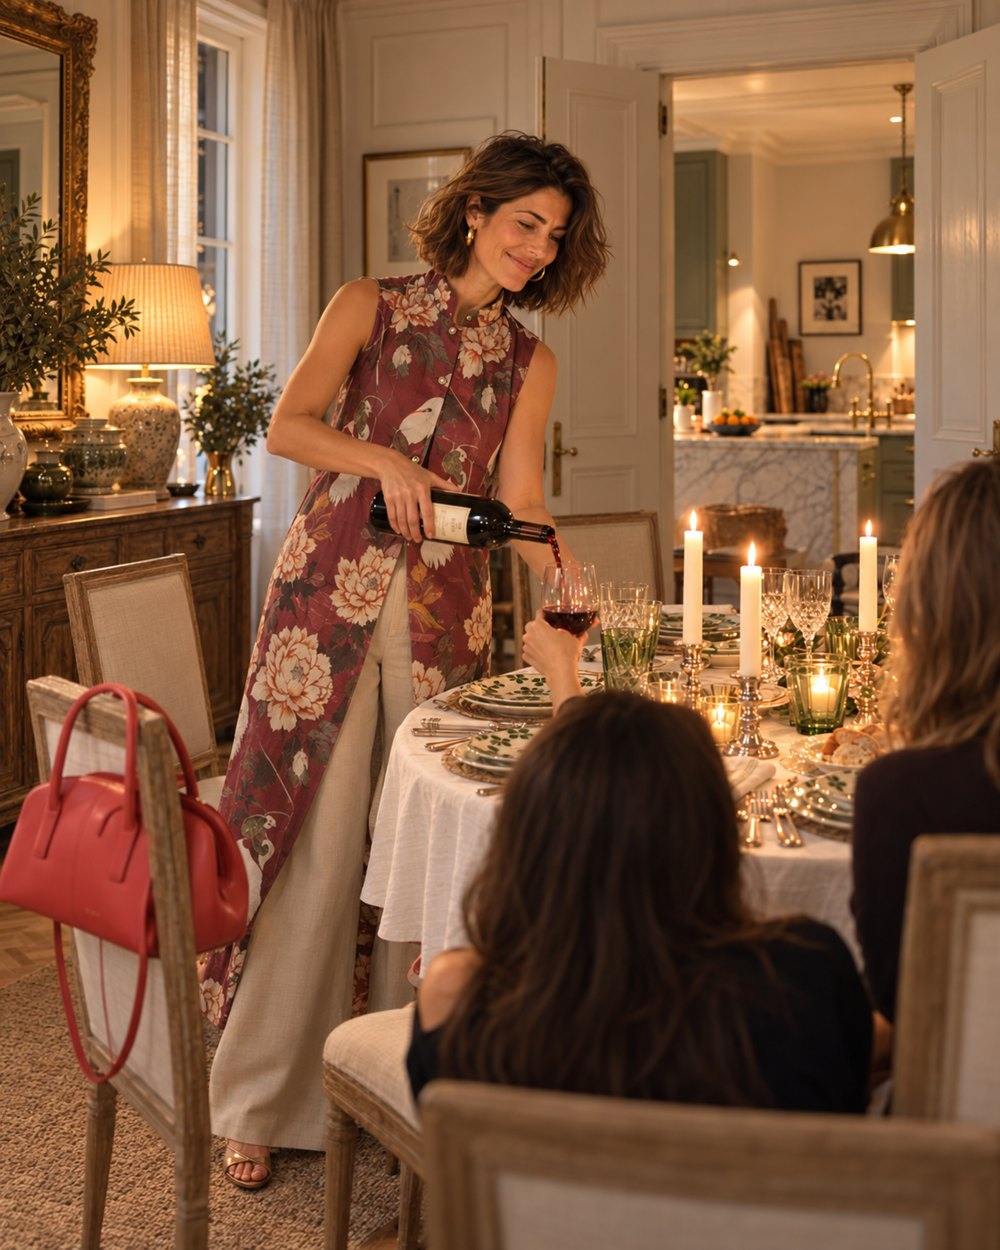
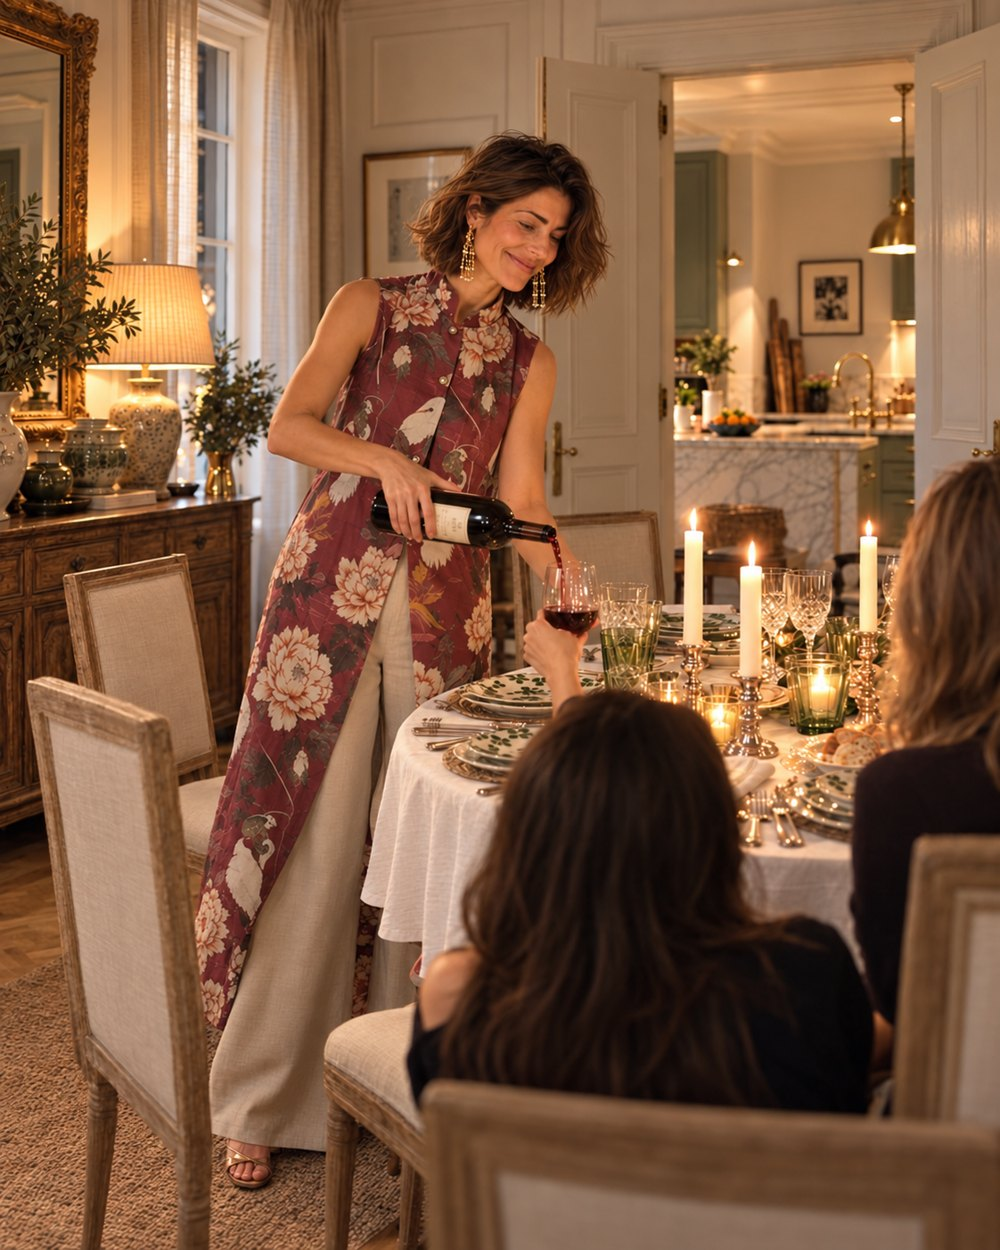
Red velvet & denim replaces Short trench; Saturday dinner earrings instead of bag

diff --git a/index.html b/index.html
@@ -56,16 +56,17 @@ a:focus-visible{outline:2px solid var(--accent);outline-offset:2px}
 <script>
 /* ADD NEW LOOKS AT THE TOP OF THIS LIST */
 const LOOKS = [
-  {id:"shorttrench", kicker:"Sunday morning", title:"Short trench & colour", date:"1 Nov 2026", img:"shorttrench.jpg",
+  {id:"redvelvet", kicker:"Sunday vermouth", title:"Red velvet & denim", date:"1 Nov 2026", img:"redvelvet.jpg",
    items:[
-    {b:"& Other Stories", n:"Short trench coat, burgundy", p:"€149", u:"https://www.stories.com/es-es/product/short-trench-coat-burgundy-1355129003/"},
-    {b:"María de la Orden", n:"Samara skirt, olive & magenta", p:"€105", u:"https://mariadelaorden.com/es-es/products/samara-skirt-olive-magenta"}
+    {b:"Sophie and Lucie", n:"Paloma quilted velvet jacket, red", p:"€250", u:"https://www.sophieandlucie.com/products/chaqueta-paloma-padding-rojo-oi26"},
+    {b:"Zara", n:"ZW straight mid-rise jeans, blue", p:"€59.95", u:"https://www.zara.com/es/es/jeans-zw-collection-straight-tiro-medio-p06840248.html"},
+    {b:"Zara", n:"Leopard print leather ballet flats", p:"€45.95", u:"https://www.zara.com/es/es/bailarina-estampado-piel-textura-p11570810.html"}
    ]},
   {id:"saturdaydinner", kicker:"Dinner at home", title:"Saturday dinner", date:"31 Oct 2026", img:"saturdaydinner.jpg",
    items:[
     {b:"Bacuar Vintage", n:"Narciso kimono, burgundy print", p:"€230", u:"https://bacuar.com/products/kimono"},
     {b:"Bacuar Vintage", n:"Narciso trousers, cream", p:"€110", u:"https://bacuar.com/products/pantalon"},
-    {b:"Bimba y Lola", n:"Romeo leather bag, coral", p:"€250", u:"https://www.bimbaylola.com/es_es/bolso-romeo-piel-coral-intenso-262BB1J8W.10233.html"}
+    {b:"Sophie and Lucie", n:"Mermaid cascade earrings, gold", p:"€130", u:"https://www.sophieandlucie.com/products/pendientes-cascada-mermaid-oro-oi26"}
    ]},
   {id:"shadesofred", kicker:"Total red", title:"Shades of red", date:"30 Oct 2026", img:"shadesofred.jpg",
    items:[
